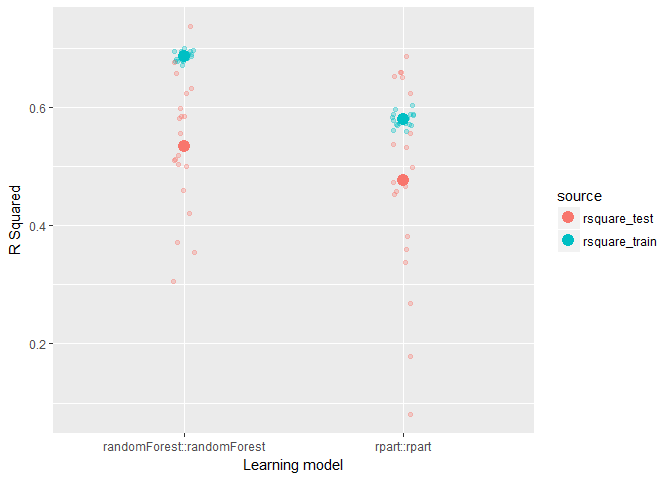
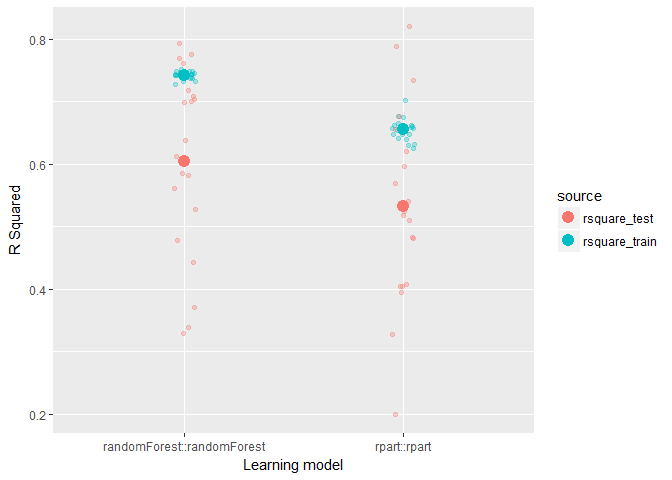
add arbitrary cross-validation functions

diff --git a/README.md b/README.md
@@ -118,15 +118,15 @@ pl %>% learn()
 
 ### Cross-validation pairs
 
-Cross-validation pairs can be customized with `learn_cvpairs()`. The following implements k-fold cross-validation, creating five folds:
+Cross-validation pairs can be customized with `learn_cvpairs()`. The following implements cross-validation with 5 random samples of 10 elements in each training set.
 
 ``` r
 pl %>%
-  learn_cvpairs(k = 5) %>% 
+  learn_cvpairs(resamplr::holdout_n, size = 10, K = 5) %>% 
   learn()
 #> # A tibble: 5 × 9
 #>   models.id cv_pairs.id train_p      fit       target model     params
-#>       <chr>       <chr>   <dbl>   <list>        <chr> <chr>     <list>
+#>       <chr>       <int>   <dbl>   <list>        <chr> <chr>     <list>
 #> 1         1           1       1 <S3: lm> Sepal.Length    lm <list [1]>
 #> 2         1           2       1 <S3: lm> Sepal.Length    lm <list [1]>
 #> 3         1           3       1 <S3: lm> Sepal.Length    lm <list [1]>
@@ -237,7 +237,7 @@ After initialization, pipelearner functions can be combined in a single pipeline
 ``` r
 iris %>% 
   pipelearner() %>%
-  learn_cvpairs(n = 50) %>%
+  learn_cvpairs(modelr::crossv_mc, n = 50) %>%
   learn_curves(seq(.5, 1, by = .1)) %>% 
   learn_models(lm, Sepal.Width ~ .*.) %>% 
   learn_models(rpart::rpart, Sepal.Width ~ .) %>% 
@@ -298,7 +298,7 @@ d <- weather %>%
 
 results <- d %>% 
   pipelearner() %>% 
-  learn_cvpairs(n = 50, test = .15) %>% 
+  learn_cvpairs(modelr::crossv_mc, n = 50, test = .15) %>% 
   learn_curves(seq(.1, 1, by = .1)) %>% 
   learn_models(lm, visib ~ .) %>% 
   learn()
@@ -332,16 +332,16 @@ results %>% select(cv_pairs.id, train_p, contains("rsquare"))
 #> # A tibble: 500 × 4
 #>    cv_pairs.id train_p rsquare_train rsquare_test
 #>          <chr>   <dbl>         <dbl>        <dbl>
-#> 1           01     0.1     0.3845940    0.3500529
-#> 2           01     0.2     0.3062767    0.3640149
-#> 3           01     0.3     0.3087963    0.3667463
-#> 4           01     0.4     0.2933802    0.3723054
-#> 5           01     0.5     0.3049997    0.3746149
-#> 6           01     0.6     0.3063724    0.3720348
-#> 7           01     0.7     0.3207169    0.3842467
-#> 8           01     0.8     0.3152714    0.3829075
-#> 9           01     0.9     0.3227073    0.3863088
-#> 10          01     1.0     0.3282377    0.3873565
+#> 1           01     0.1     0.5294285    0.3673313
+#> 2           01     0.2     0.4256662    0.3280880
+#> 3           01     0.3     0.4188237    0.3453015
+#> 4           01     0.4     0.4045662    0.3447929
+#> 5           01     0.5     0.3805937    0.3497000
+#> 6           01     0.6     0.3609124    0.3502331
+#> 7           01     0.7     0.3609650    0.3466058
+#> 8           01     0.8     0.3603936    0.3458909
+#> 9           01     0.9     0.3686788    0.3500961
+#> 10          01     1.0     0.3547963    0.3496594
 #> # ... with 490 more rows
 ```
 
@@ -366,7 +366,7 @@ The example below fits a decision tree and random forest to 20 folds of a subset
 ``` r
 results <-  d %>% 
   pipelearner() %>% 
-  learn_cvpairs(k = 20) %>% 
+  learn_cvpairs(modelr::crossv_kfold, k = 20) %>% 
   learn_models(c(rpart::rpart, randomForest::randomForest), 
                visib ~ .) %>% 
   learn()
